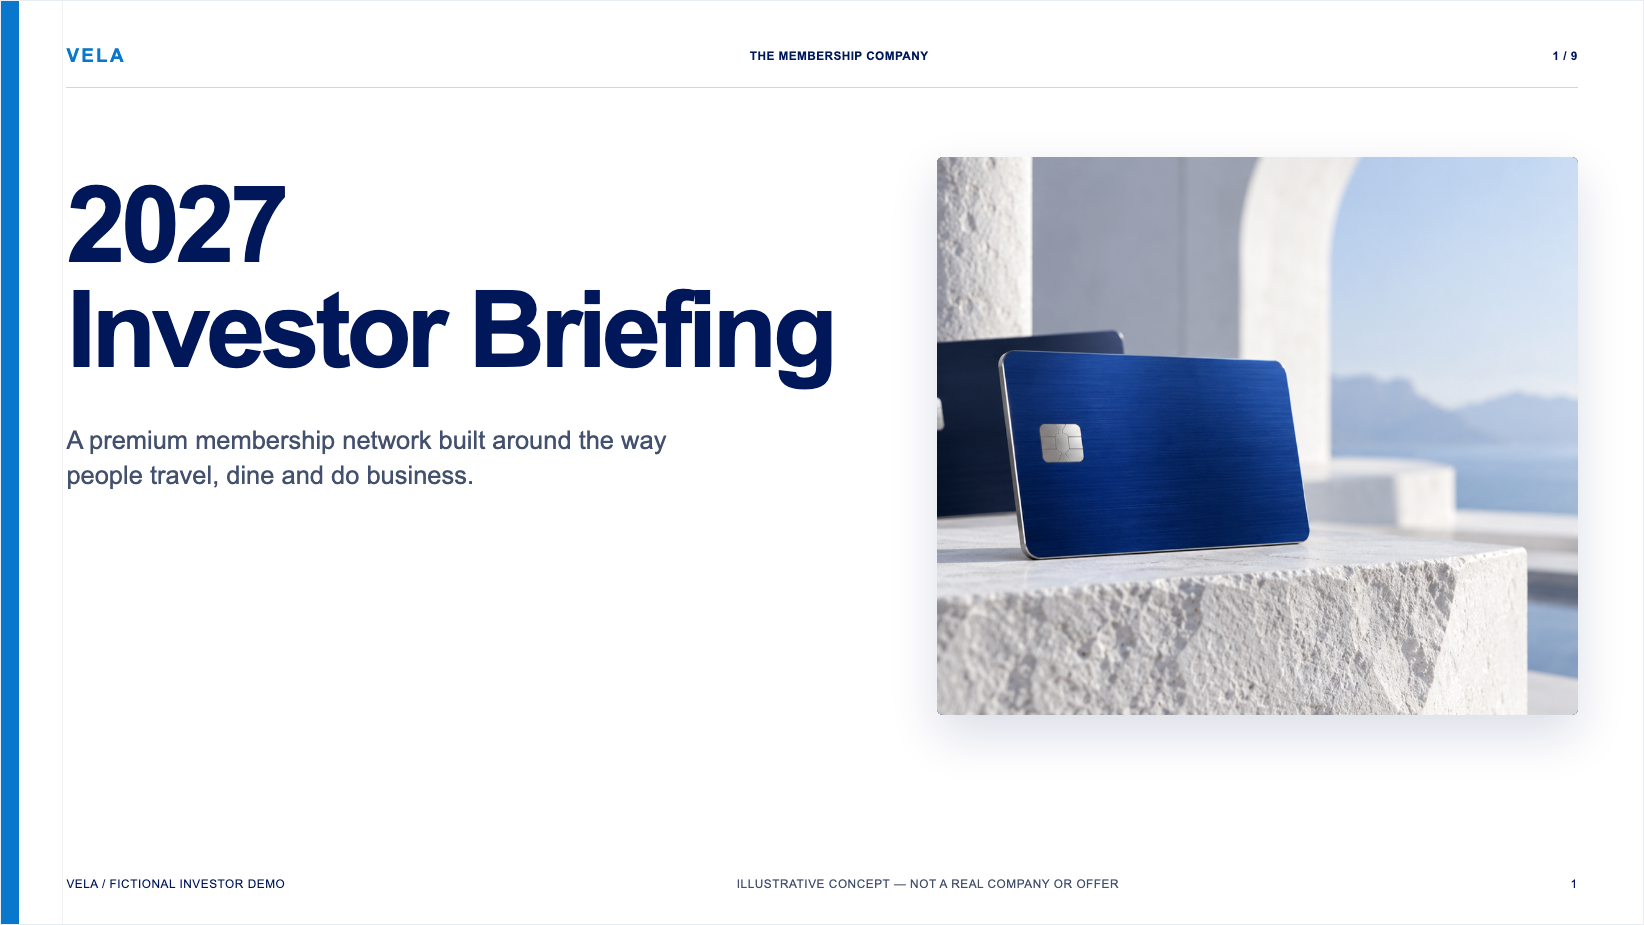
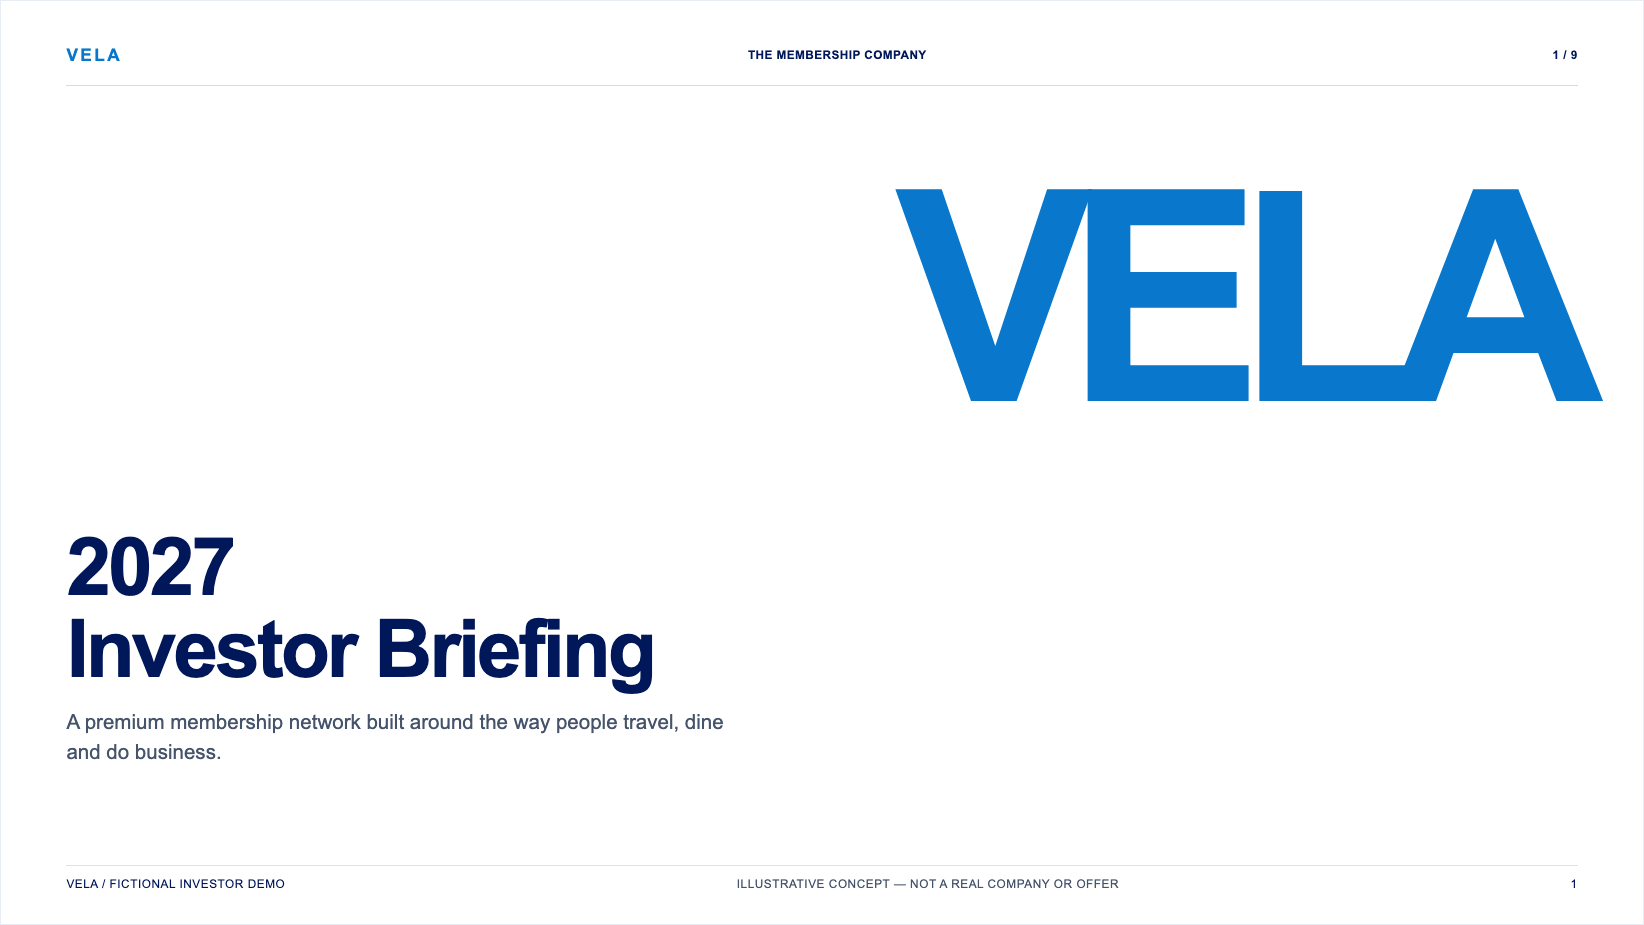
Differentiate investor deck with financial layouts

Changed region(s): [[0.5274, 0.1514, 0.9927, 0.787], [0.0, 0.0, 0.5274, 0.9989], [0.4653, 0.0303, 0.5584, 0.0908]]

diff --git a/decks/kujo-demo-investor/assets/theme.css b/decks/kujo-demo-investor/assets/theme.css
@@ -1,55 +1,114 @@
-:root { --p-background:#fff; --p-foreground:#00175a; --p-muted:#43516e; --p-border:#d9e0e7; --p-accent:#0877cc; --p-on-accent:#fff; --p-inverse:#00175a; --p-on-inverse:#fff; --p-viewer-background:#e8edf3; --p-font:Arial,Helvetica,sans-serif; --p-display:Arial,Helvetica,sans-serif; --p-heading-weight:700; --p-letter-spacing:-.045em; --p-title-case:none; }
-.p-canvas { background-image:linear-gradient(90deg,transparent 0 3.7cqw,rgba(0,23,90,.06) 3.7cqw 3.78cqw,transparent 3.78cqw); }
-.p-canvas::after { content:""; position:absolute; inset:0; pointer-events:none; background:linear-gradient(90deg,var(--p-accent) 0 1.1cqw,transparent 1.1cqw); }
-.p-inverse.p-canvas::after { background:linear-gradient(90deg,#26a8f5 0 1.1cqw,transparent 1.1cqw); }
-.p-header { border-bottom-color:color-mix(in srgb,currentColor 18%,transparent); font-weight:700; letter-spacing:.035em; text-transform:uppercase; }
-.p-header span:first-child { color:var(--p-accent); font-size:1.15cqw; letter-spacing:.12em; }
-.p-inverse .p-header span:first-child { color:#5bc3ff; }
-.p-footer { border-top-color:color-mix(in srgb,currentColor 16%,transparent); }
-.p-canvas h1 { line-height:.98; }
-.p-intro,.p-heading p { color:var(--p-muted); line-height:1.38; }
-.p-inverse .p-intro,.p-inverse .p-heading p { color:color-mix(in srgb,var(--p-on-inverse) 78%,transparent); }
-.p-image { border-radius:.35cqw; box-shadow:0 1.2cqw 3cqw rgba(0,23,90,.14); }
-.p-image img { filter:saturate(.92) contrast(1.02); }
-.p-features li { border-top:.16cqw solid var(--p-border); }
-.p-feature-number { background:var(--p-inverse); border-radius:50%; color:var(--p-on-inverse); display:grid; height:2.15cqw; place-items:center; width:2.15cqw; }
-.p-features h2 { letter-spacing:-.02em; }
-.p-accent { border-radius:.45cqw; }
-.p-layout-hero .p-heading { top:10.5cqw; width:48cqw; }
-.p-layout-hero h1 { color:var(--p-foreground); font-size:6.5cqw; }
-.p-layout-hero .p-heading p { font-size:1.55cqw; width:40cqw; }
-.p-layout-hero .p-images { height:38cqw; top:9.5cqw; width:39cqw; }
-.p-layout-hero .p-image-0 { height:34cqw; inset-inline-start:0; top:0; width:39cqw; }
-.p-layout-hero .p-accent { display:none; }
-.p-layout-index h1,.p-layout-value h1 { font-size:4.65cqw; }
-.p-layout-index .p-features { grid-template-columns:repeat(2,1fr); top:27cqw; }
-.p-layout-index .p-features li { background:#f1f4f6; border:0; min-height:8cqw; padding:1.35cqw; }
-.p-layout-index .p-feature-number { float:left; margin-right:1cqw; }
-.p-layout-index .p-features h2 { color:var(--p-accent); font-size:1.65cqw; }
-.p-layout-market h1 { font-size:4.4cqw; }
-.p-chart-rule { stroke:#dfe5eb; }
-.p-chart-bar { fill:var(--p-accent); }
-.p-chart text { fill:var(--p-foreground); font-weight:700; }
-.p-layout-market .p-metric dd { color:var(--p-accent); font-size:10cqw; }
-.p-layout-market .p-metric dt { color:var(--p-foreground); font-weight:700; }
-.p-layout-editorial .p-images { height:26cqw; width:53cqw; }
-.p-layout-editorial .p-image-0 { height:26cqw; width:53cqw; }
-.p-layout-editorial h1 { color:var(--p-foreground); font-size:4.35cqw; }
-.p-layout-editorial .p-features li { padding-block:.85cqw; }
-.p-layout-editorial .p-accent { background:var(--p-accent); }
-.p-layout-value .p-features li { background:#0877cc; min-height:18.5cqw; }
-.p-layout-value .p-features li:nth-child(even) { background:#005aa8; }
-.p-layout-value .p-feature-number { background:transparent; color:#fff; display:block; height:auto; width:auto; }
-.p-layout-offerings h1 { font-size:4.5cqw; width:54cqw; }
-.p-layout-offerings .p-image-0 { height:24cqw; width:32cqw; }
-.p-layout-offerings .p-image-1 { border-color:#fff; height:19cqw; width:23cqw; }
-.p-layout-offerings .p-metric dd { color:var(--p-accent); }
-.p-layout-offerings .p-features li { border-color:var(--p-accent); }
-.p-layout-business h1 { font-size:4.25cqw; }
-.p-layout-business .p-image-0 { height:24cqw; width:52cqw; }
-.p-layout-business .p-panel { background:#eef2f5; color:var(--p-foreground); }
-.p-layout-business .p-feature-number { background:var(--p-accent); }
-.p-layout-business .p-accent { background:var(--p-accent); }
-.p-layout-statement h1 { font-size:7.4cqw; width:88cqw; }
-.p-layout-statement .p-intro { color:#c4d7e8; font-size:1.65cqw; width:52cqw; }
-.p-layout-statement::before { color:rgba(255,255,255,.055); content:"VELA"; font-family:var(--p-display); font-size:21cqw; font-weight:800; inset-inline-end:3cqw; letter-spacing:-.08em; line-height:1; position:absolute; top:9cqw; }
+:root {
+  --p-background: #ffffff;
+  --p-foreground: #00175a;
+  --p-muted: #46546b;
+  --p-border: #d8dee5;
+  --p-accent: #0877cc;
+  --p-on-accent: #ffffff;
+  --p-inverse: #00175a;
+  --p-on-inverse: #ffffff;
+  --p-viewer-background: #e8edf3;
+  --p-font: Arial, Helvetica, sans-serif;
+  --p-display: Arial, Helvetica, sans-serif;
+  --p-heading-weight: 700;
+  --p-letter-spacing: -.038em;
+  --p-title-case: none;
+}
+
+.p-canvas { background-image: none; }
+.p-canvas::after { content: none; }
+.p-header { border-bottom-color: color-mix(in srgb, currentColor 16%, transparent); font-weight: 700; letter-spacing: .035em; text-transform: uppercase; }
+.p-header span:first-child { color: var(--p-accent); font-size: 1.05cqw; letter-spacing: .14em; }
+.p-inverse .p-header span:first-child { color: #54bdf6; }
+.p-footer { border-top: .06cqw solid color-mix(in srgb, currentColor 13%, transparent); padding-top: .7cqw; }
+.p-canvas h1 { line-height: 1.02; }
+.p-canvas h2 { letter-spacing: -.015em; }
+.p-intro, .p-heading p { color: var(--p-muted); line-height: 1.4; }
+.p-inverse .p-intro, .p-inverse .p-heading p { color: #d6e3ee; }
+.p-image { border-radius: .25cqw; box-shadow: none; }
+.p-image img { filter: saturate(.9) contrast(1.02); }
+.p-accent { display: none; }
+.p-feature-number { align-items: center; background: var(--p-inverse); border-radius: 50%; color: var(--p-on-inverse); display: inline-flex; flex: 0 0 auto; height: 1.8cqw; justify-content: center; width: 1.8cqw; }
+
+/* Cover and closing: large brand typography instead of the orange deck's photo-led hero. */
+.p-layout-statement:not(.p-inverse)::before {
+  color: var(--p-accent);
+  content: "VELA";
+  font: 800 18cqw/.8 var(--p-display);
+  inset-inline-end: 4cqw;
+  letter-spacing: -.09em;
+  position: absolute;
+  top: 11cqw;
+}
+.p-layout-statement:not(.p-inverse) h1 { inset-inline-start: 4cqw; top: 32cqw; width: 38cqw; font-size: 4.9cqw; }
+.p-layout-statement:not(.p-inverse) .p-intro { inset-inline-start: 4cqw; top: 43cqw; width: 42cqw; font-size: 1.25cqw; }
+.p-layout-statement.p-inverse::before {
+  color: rgba(255,255,255,.055);
+  content: "VELA";
+  font: 800 20cqw/.8 var(--p-display);
+  inset-inline-end: 3cqw;
+  letter-spacing: -.09em;
+  position: absolute;
+  top: 13cqw;
+}
+.p-layout-statement.p-inverse h1 { inset-inline-start: 4cqw; top: 19cqw; width: 72cqw; font-size: 7cqw; }
+.p-layout-statement.p-inverse .p-intro { inset-inline-start: 4cqw; top: 38cqw; width: 48cqw; font-size: 1.35cqw; }
+
+/* Key takeaways: one disciplined stack of rows, following the financial reference. */
+.p-layout-index h1 { inset-inline-start: 12cqw; top: 8.8cqw; width: 76cqw; font-size: 3.45cqw; text-align: center; }
+.p-layout-index .p-intro { inset-inline-start: 20cqw; top: 14.8cqw; width: 60cqw; text-align: center; }
+.p-layout-index .p-features { inset-inline: 14cqw; top: 22cqw; grid-template-columns: 1fr; gap: 1cqw; }
+.p-layout-index .p-features li { align-items: center; background: #f0f2f4; border: 0; min-height: 5.2cqw; padding: .85cqw 1.25cqw; }
+.p-layout-index .p-features h2 { color: var(--p-foreground); font-size: 1.25cqw; margin-bottom: .18cqw; }
+.p-layout-index .p-features p { color: var(--p-muted); font-size: .9cqw; }
+
+/* Financial charts: centered headline, clear plotting field, one headline metric. */
+.p-layout-market h1 { inset-inline-start: 12cqw; top: 8.8cqw; width: 76cqw; font-size: 3.35cqw; text-align: center; }
+.p-layout-market .p-intro { inset-inline-start: 24cqw; top: 15cqw; width: 52cqw; text-align: center; }
+.p-layout-market .p-chart { bottom: 7.5cqw; inset-inline-start: 6cqw; width: 61cqw; }
+.p-chart-rule { stroke: #dfe5ea; }
+.p-chart rect { fill: var(--p-accent); }
+.p-chart text { fill: var(--p-foreground); font-weight: 700; }
+.p-layout-market .p-metrics { inset-inline-start: 73cqw; top: 25cqw; }
+.p-layout-market .p-metric { background: linear-gradient(145deg, #0877cc, #005aa8); color: #fff; min-height: 17cqw; padding: 2cqw; width: 20cqw; }
+.p-layout-market .p-metric dd { font-size: 8.5cqw; }
+.p-layout-market .p-metric dt { font-size: 1cqw; max-width: 15cqw; }
+
+/* Membership model: explanatory rows on the left, one aspirational image on the right. */
+.p-layout-problem h1 { inset-inline-start: 12cqw; top: 8.8cqw; width: 76cqw; font-size: 3.35cqw; text-align: center; }
+.p-layout-problem .p-intro { inset-inline-start: 20cqw; top: 15cqw; width: 60cqw; text-align: center; }
+.p-layout-problem .p-features { inset-inline-start: 5cqw; inset-inline-end: auto; top: 23cqw; width: 37cqw; gap: 1cqw; }
+.p-layout-problem .p-features li { background: #f0f2f4; border: 0; min-height: 6.4cqw; padding: 1.1cqw; }
+.p-layout-problem .p-features h2 { color: #005aa8; font-size: 1.3cqw; }
+.p-layout-problem .p-images { inset-inline-start: auto; inset-inline-end: 5cqw; top: 23cqw; width: 49cqw; height: 22cqw; }
+.p-layout-problem .p-image-0 { height: 22cqw; width: 49cqw; }
+
+/* Member segments: a single row of brand-blue pillars like the supplied reference. */
+.p-layout-value h1 { inset-inline-start: 12cqw; top: 8.8cqw; width: 76cqw; font-size: 3.35cqw; text-align: center; }
+.p-layout-value .p-intro { inset-inline-start: 24cqw; top: 15cqw; width: 52cqw; text-align: center; }
+.p-layout-value .p-features { inset-inline: 5cqw; top: 23cqw; gap: .7cqw; }
+.p-layout-value .p-features li { background: #0877cc; min-height: 21.5cqw; padding: 1.45cqw; }
+.p-layout-value .p-features li:nth-child(even) { background: #0067b8; }
+.p-layout-value .p-feature-number { background: transparent; color: #fff; display: block; font-size: 2.2cqw; height: auto; width: auto; }
+.p-layout-value .p-features h2 { font-size: 1.45cqw; }
+
+/* Services: editorial photography anchors the left half; member economics stay on the right. */
+.p-layout-offerings h1 { inset-inline-start: 12cqw; top: 8.8cqw; width: 76cqw; font-size: 3.35cqw; text-align: center; }
+.p-layout-offerings .p-intro { inset-inline-start: 24cqw; top: 15cqw; width: 52cqw; text-align: center; }
+.p-layout-offerings .p-images { inset-inline-start: 5cqw; inset-inline-end: auto; top: 23cqw; width: 48cqw; height: 22cqw; }
+.p-layout-offerings .p-image-0 { inset-inline-start: 0; width: 48cqw; height: 22cqw; }
+.p-layout-offerings .p-metrics { inset-inline-start: 58cqw; bottom: auto; top: 24cqw; gap: 4cqw; }
+.p-layout-offerings .p-metric dd { color: var(--p-accent); font-size: 5.8cqw; }
+.p-layout-offerings .p-metric dt { max-width: 12cqw; }
+.p-layout-offerings .p-features { inset-inline-start: 58cqw; top: 37cqw; width: 34cqw; }
+.p-layout-offerings .p-features li { border-color: var(--p-accent); }
+
+/* Capital framework: centered title, image and copy split above a restrained three-column base. */
+.p-layout-business h1 { inset-inline-start: 12cqw; top: 8.8cqw; width: 76cqw; font-size: 3.35cqw; text-align: center; }
+.p-layout-business .p-intro { inset-inline-start: 6cqw; top: 22cqw; width: 37cqw; font-size: 1.25cqw; }
+.p-layout-business .p-images { inset-inline-start: auto; inset-inline-end: 6cqw; top: 18cqw; width: 45cqw; height: 16cqw; }
+.p-layout-business .p-image-0 { width: 45cqw; height: 16cqw; }
+.p-layout-business .p-panel { background: #eef2f5; color: var(--p-foreground); inset-inline: 0; top: 36cqw; bottom: 5.5cqw; padding: 1.6cqw 5cqw; }
+.p-layout-business .p-features { gap: 3cqw; }
+.p-layout-business .p-features li { border-color: #96a7b8; }
+.p-layout-business .p-feature-number { background: var(--p-accent); }

diff --git a/decks/kujo-demo-investor/BRIEF.md b/decks/kujo-demo-investor/BRIEF.md
@@ -9,6 +9,8 @@ Brand: Vela; cobalt blue, deep navy, crisp white, restrained corporate typograph
 
 The user supplied the American Express 2024 Investor Day design system on Slides.Wiki as a visual and content reference. The deck borrows broad presentation principles only: premium blue-and-white contrast, disciplined typography, generous whitespace, concise key-takeaway structures, minimal charts, and member-lifestyle imagery. It does not reuse American Express branding, logos, copy, data, charts, or photography.
 
+The slide compositions intentionally differ from the orange Form Media deck. Vela uses a type-led cover, centered financial headlines, stacked takeaway rows, compact chart fields, blue segment pillars, and restrained image-and-data splits derived from the supplied reference's presentation grammar. It does not reuse the orange deck's photo-led hero, asymmetrical editorial collage, oversized accent arrows, or orange feature-card geometry.
+
 Reference reviewed 2026-10-02:
 
 - https://slides.wiki/presentations/american-express
